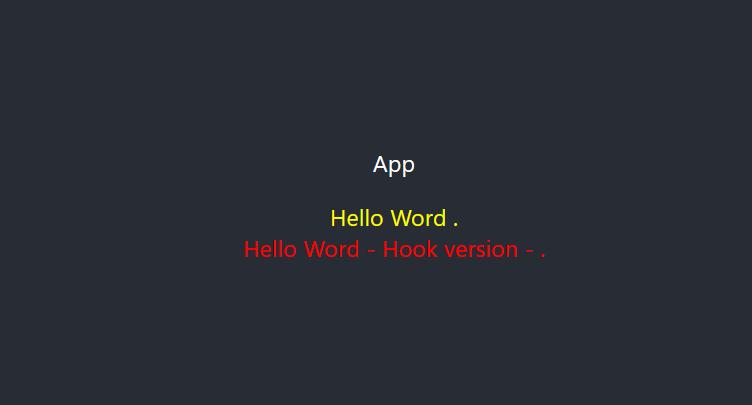
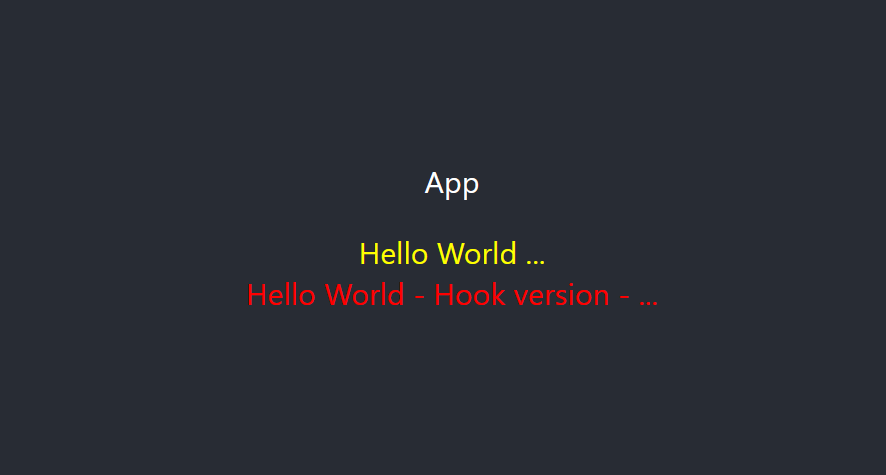
Corrección texto

Changed region(s): [[0.2753, 0.5926, 0.734, 0.6519], [0.3976, 0.5037, 0.6117, 0.563], [0.4588, 0.3556, 0.5505, 0.4444]]

diff --git a/src/App.js b/src/App.js
@@ -21,11 +21,11 @@ function App() {
         </p>
         <div style={componentLoadingOriginalStyle}>
           {/* Componente original */}
-          <LoadingOriginal title="Hello Word"/>
+          <LoadingOriginal title="Hello World"/>
         </div>
         <div style={componentLoadingStyle}>
           {/* Componente Hook */}
-          <Loading title="Hello Word - Hook version -"/>
+          <Loading title="Hello World - Hook version -"/>
         </div>
       </header>
     </div>
